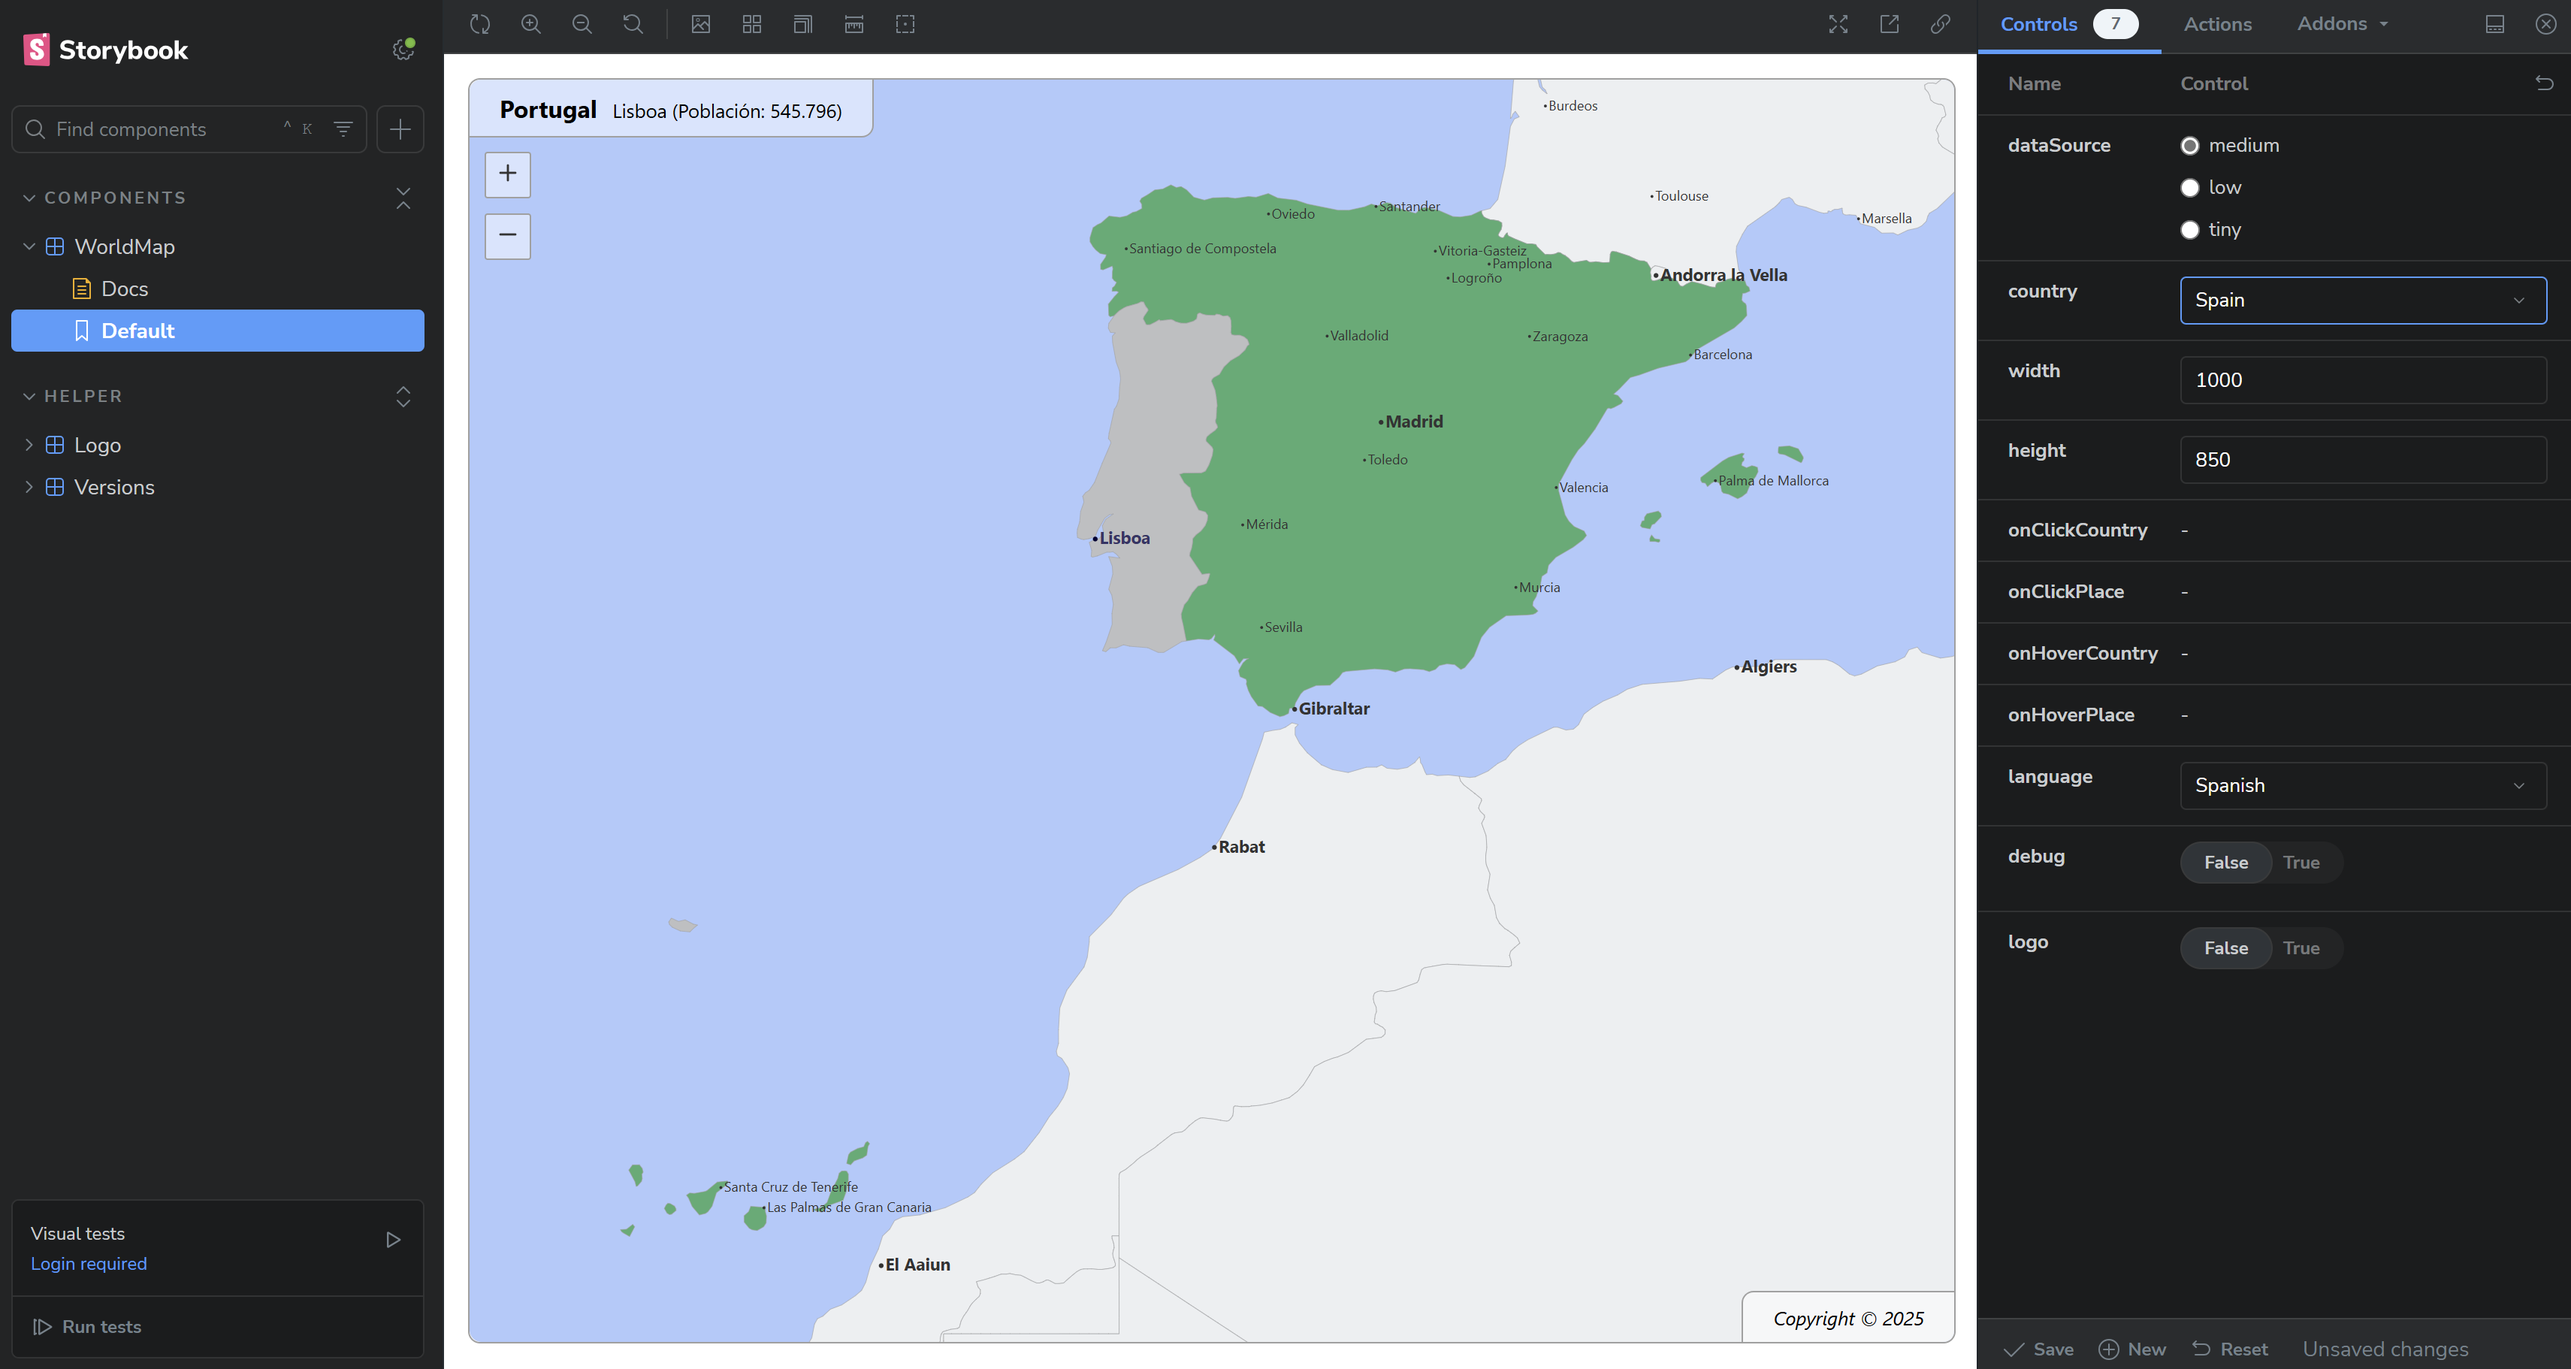
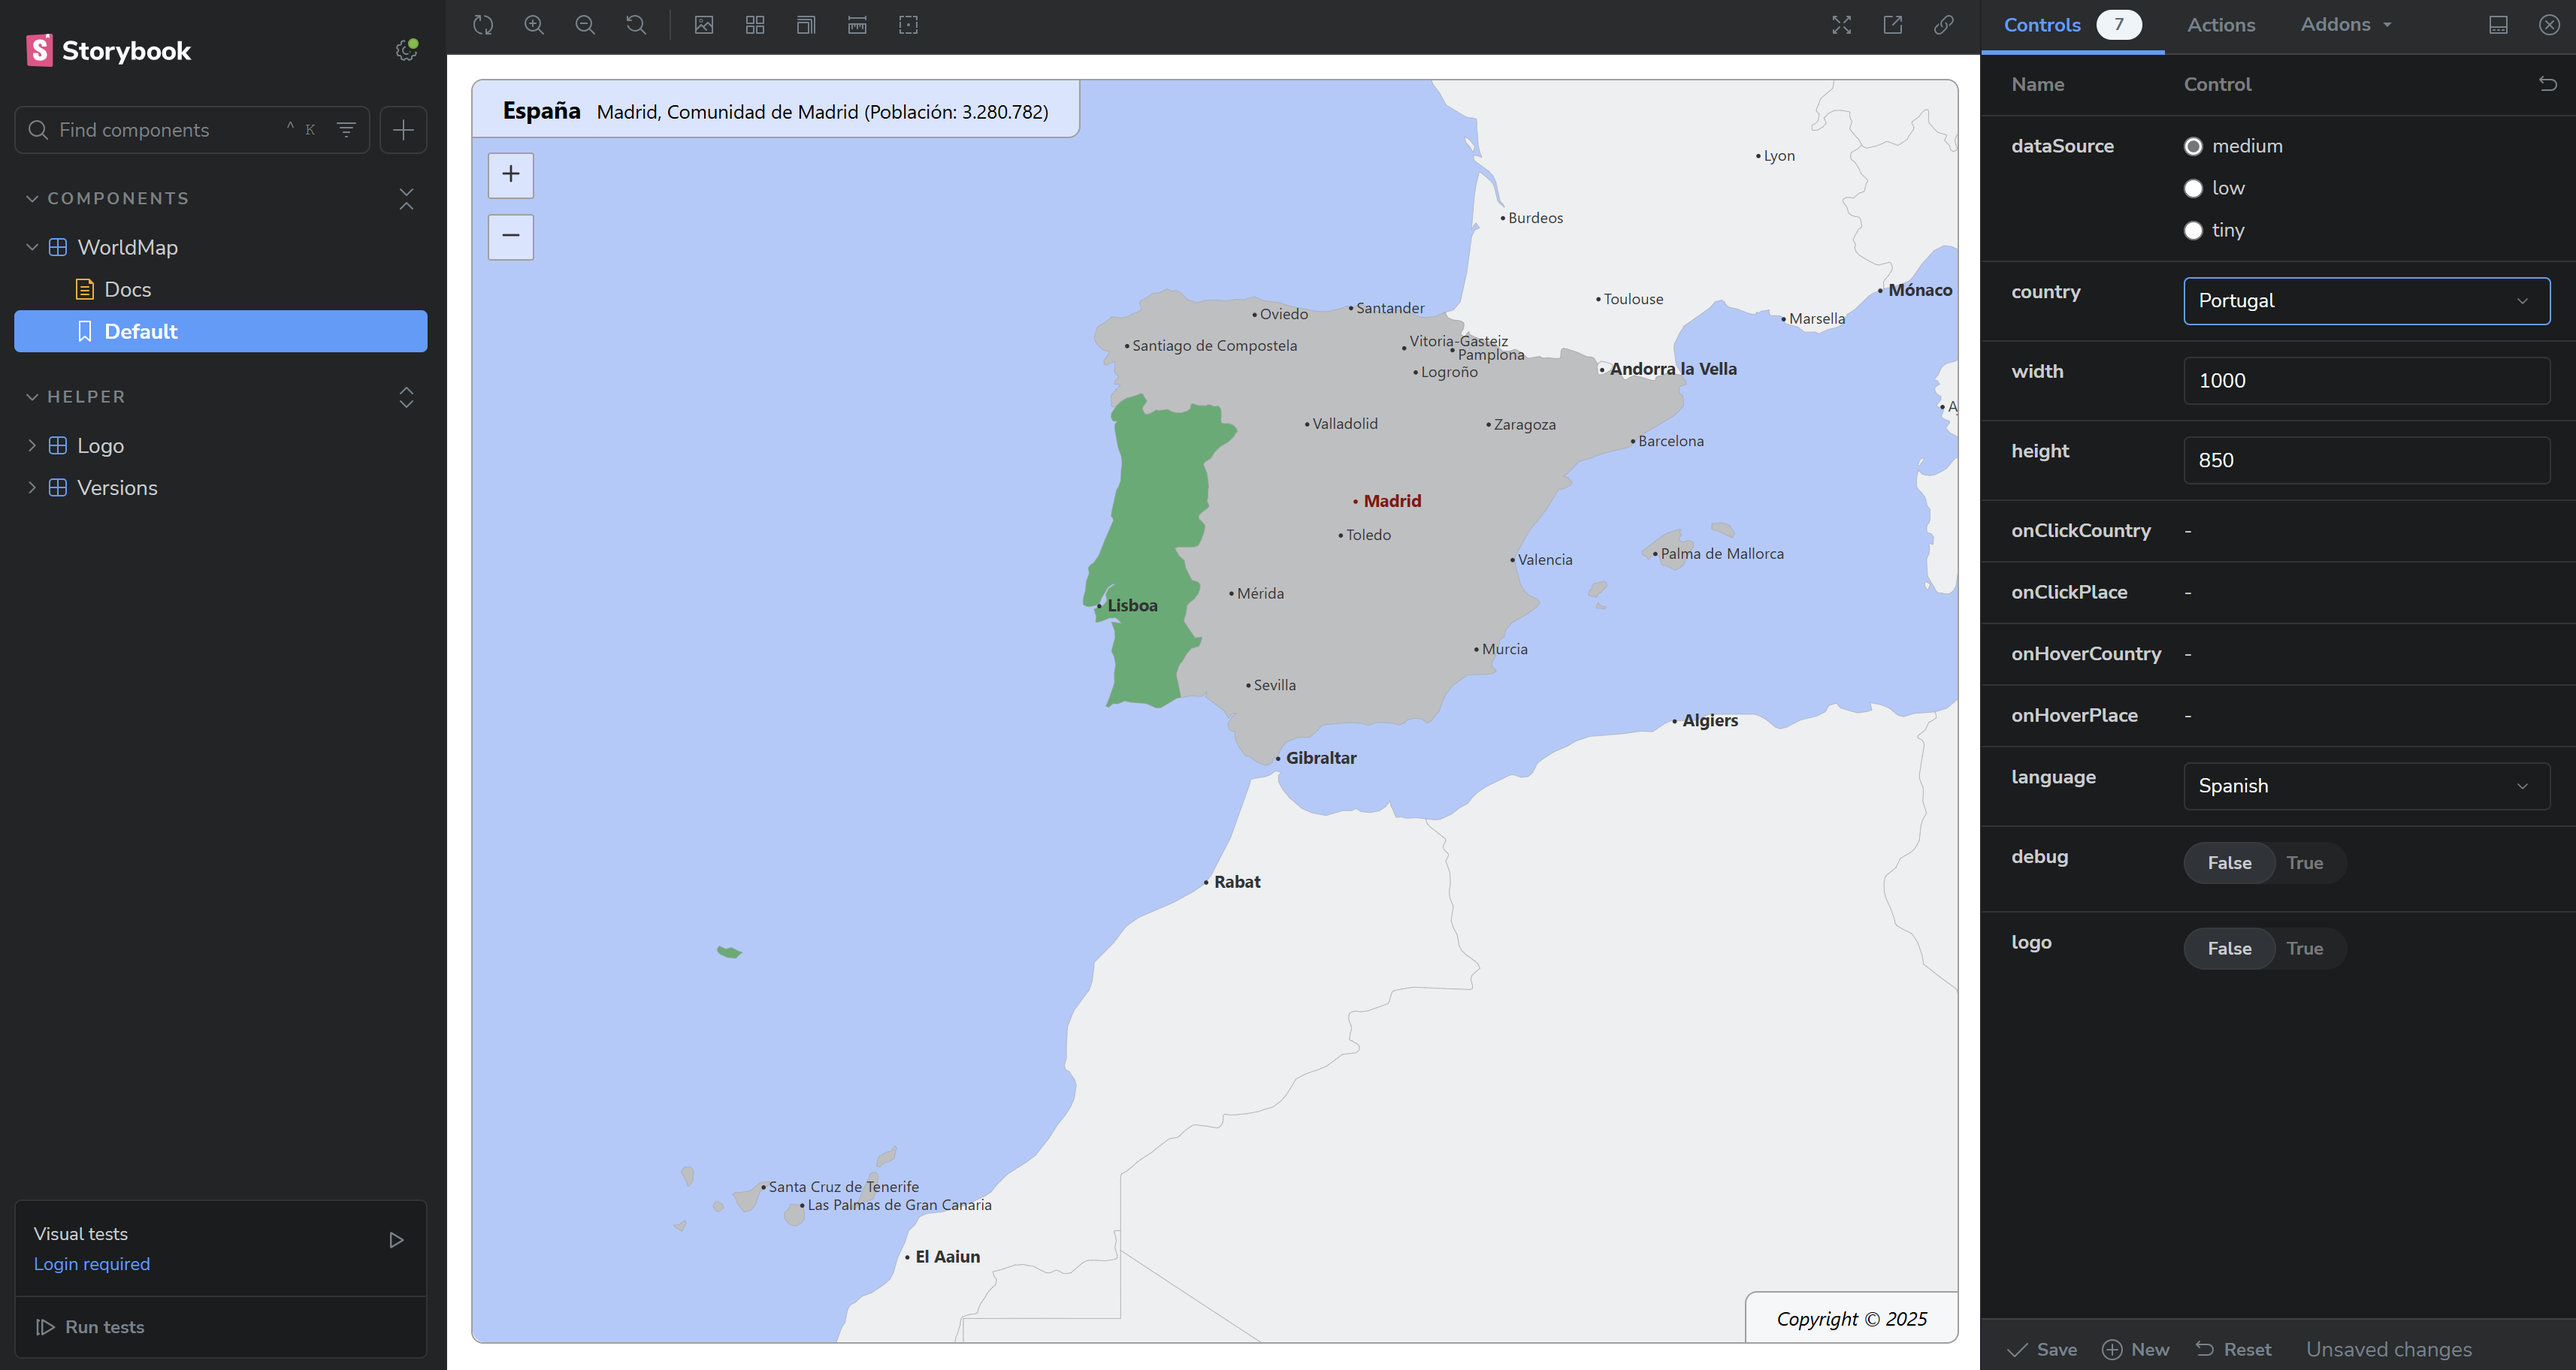
Update README.md documentation

diff --git a/README.md b/README.md
@@ -40,9 +40,13 @@ yarn add @ixnode/geo-sphere
 
 ### Display example
 
-**Example**: France is selected, but the mouse is hovering over Berlin, Germany.
+#### **Example**: France is selected, but the mouse is hovering over Berlin, Germany.
 
 ![Basic world.](docs/images/map.png "Example map.")
+
+#### **Example**: The United States are selected. The city Austin was clicked.
+
+![Basic world.](docs/images/map2.png "Example map.")
 
 ### Basic Usage
 
@@ -243,7 +247,7 @@ npm run storybook
 
 Open: http://localhost:6006/
 
-**Example**: The country Spain and language spanisch is selected, but the mouse is hovering over Lisbon, Portugal.
+#### **Example**: The country Portugal and language spanisch is selected, but the mouse is hovering over Madrid, Spain.
 
 ![Storybook](docs/images/storybook.png "Storybook")
 
